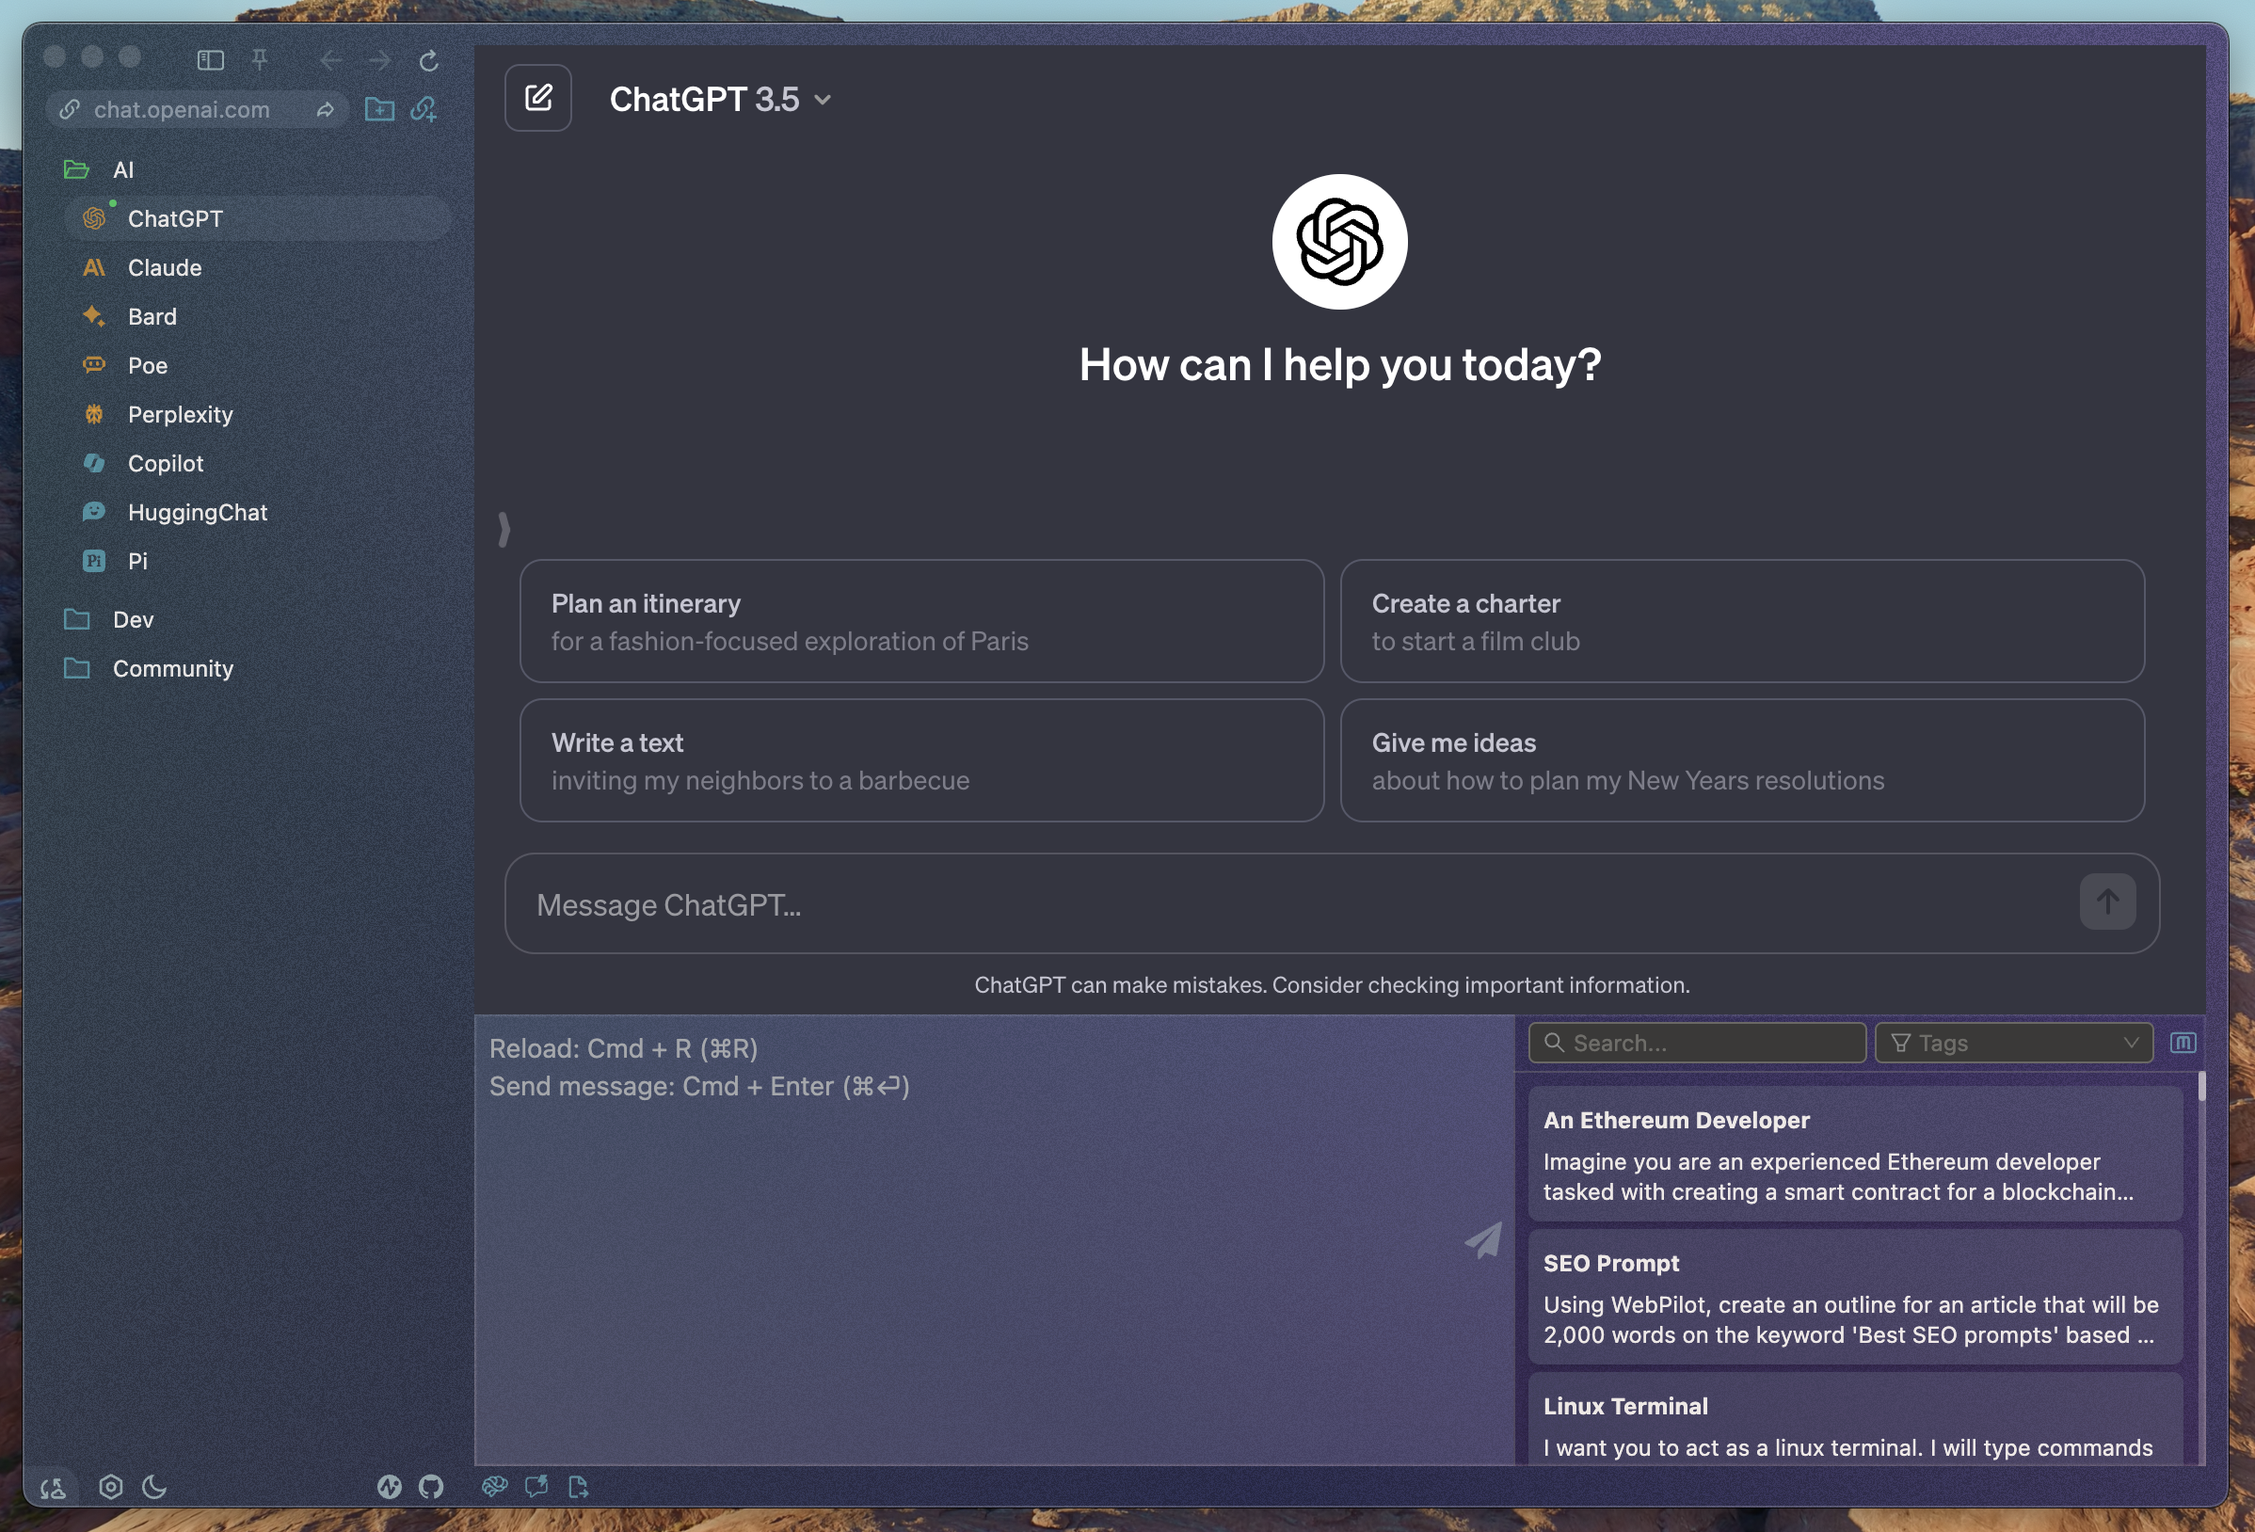
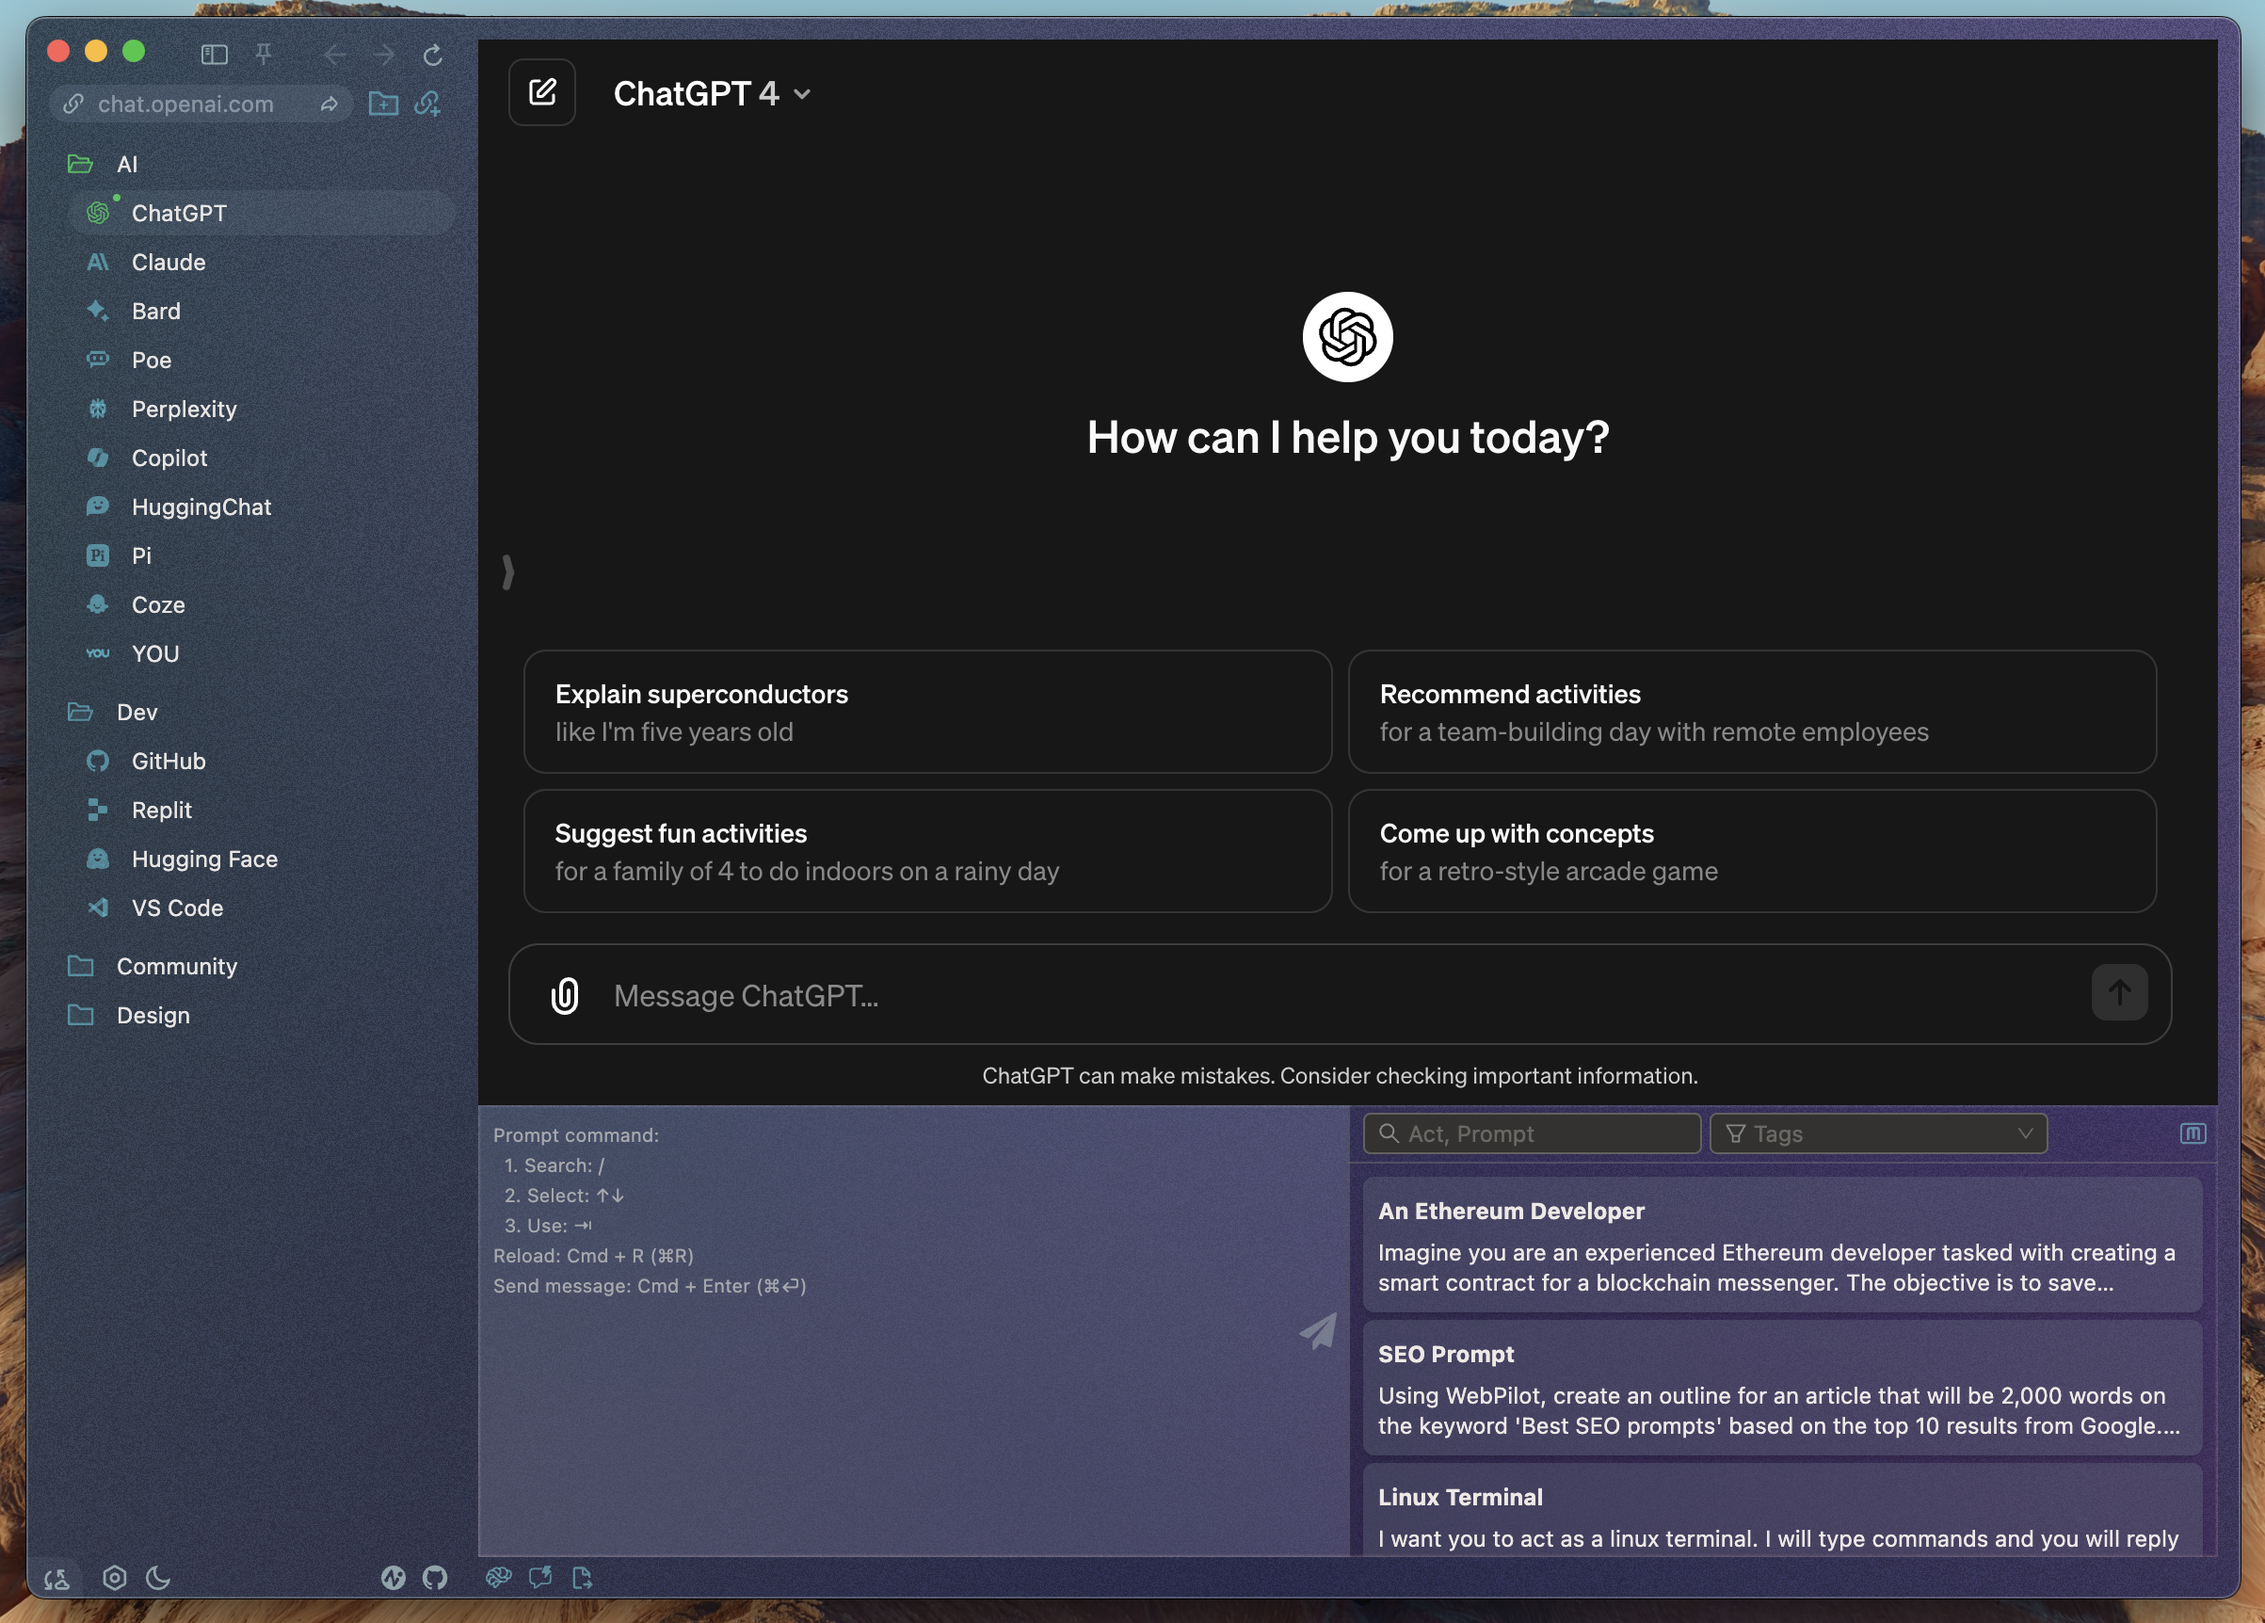
chore: update images

diff --git a/website/src/pages/index.tsx b/website/src/pages/index.tsx
@@ -44,9 +44,9 @@ export default function Home(): JSX.Element {
         <h2 className="mt-5">Preview</h2>
         <div className="grid sm:grid-cols-1 lg:grid-cols-2 gap-4 max-w-[960px] m-auto">
           <img className="rounded-lg shadow-lg" src="/readme/noi-theme-dark.png" />
-          <img className="rounded-lg shadow-lg" src="/readme/noi-theme-light.png" />
-          <img className="rounded-lg shadow-lg" src="/readme/noi-batch-ask.png" />
-          <img className="rounded-lg shadow-lg" src="/readme/noi-settings-prompts.png" />
+          <img className="rounded-lg shadow-lg" src="/readme/noi-settings.png" />
+          <img className="rounded-lg shadow-lg" src="/readme/noi-prompt.png" />
+          <img className="rounded-lg shadow-lg" src="/readme/noi-prompt-use.png" />
         </div>
 
         <h2 className="mt-5">FAQ</h2>

diff --git a/website/docusaurus.config.ts b/website/docusaurus.config.ts
@@ -4,7 +4,7 @@ import type * as Preset from '@docusaurus/preset-classic';
 
 const config: Config = {
   title: 'Noi',
-  tagline: 'AI + Tools + Plugins + Community',
+  tagline: '🚀 Power Your World with AI - Explore, Extend, Empower.',
   favicon: 'img/noi.png',
 
   // Set the production url of your site here
